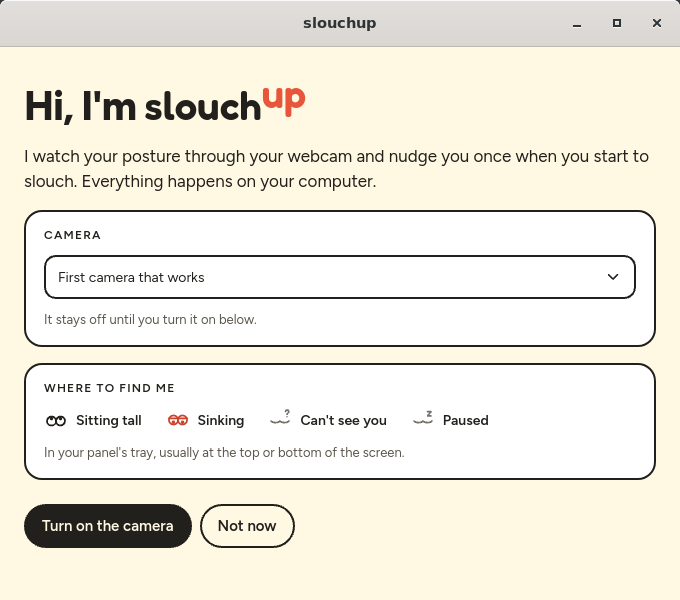
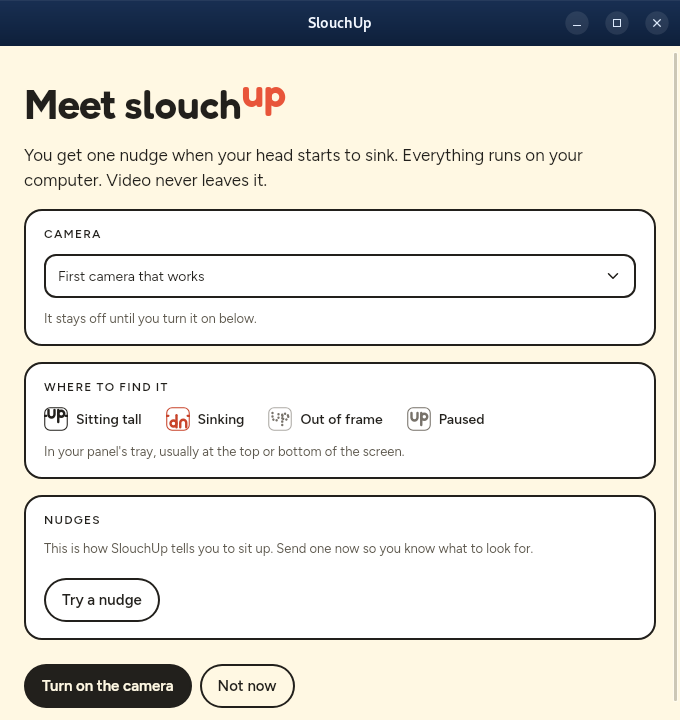
Welcome opened in the demo with --welcome
The welcome only showed on a real first run, so it couldn't be screenshotted with the demo person.
- `--demo --welcome` lists the demo's stand-in cameras and never opens a real one
- scripts/screenshots.sh takes the README's welcome this way, now with its Nudges step

diff --git a/crates/slouch-app/src/config.rs b/crates/slouch-app/src/config.rs
@@ -232,6 +232,8 @@ pub struct Args {
     pub settings: bool,
     pub history: bool,
     pub test_notification: bool,
+    /// Open the first run's welcome, as for screenshots with the demo person.
+    pub welcome: bool,
 }
 
 pub fn parse_args() -> Args {
@@ -245,10 +247,11 @@ pub fn parse_args() -> Args {
             "--settings" => args.settings = true,
             "--history" => args.history = true,
             "--test-notification" => args.test_notification = true,
+            "--welcome" => args.welcome = true,
             "--camera" => args.camera = raw.next().and_then(|n| n.parse().ok()),
             "--help" | "-h" => {
                 println!(
-                    "Usage: slouchup [--show] [--game] [--settings] [--history] [--camera N | --demo] [--test-notification]"
+                    "Usage: slouchup [--show] [--game] [--settings] [--history] [--camera N | --demo] [--welcome] [--test-notification]"
                 );
                 std::process::exit(0);
             }

diff --git a/crates/slouch-app/src/onboarding.rs b/crates/slouch-app/src/onboarding.rs
@@ -147,7 +147,15 @@ pub fn Onboarding(
     on_start: EventHandler<Option<String>>,
     on_later: EventHandler<()>,
 ) -> Element {
-    let cameras = use_hook(source::list_cameras);
+    let demo = !use_context::<Bridge>().persist;
+    // Listing opens each camera, so the demo lists its stand-ins instead.
+    let cameras = use_hook(move || {
+        if demo {
+            source::demo_cameras()
+        } else {
+            source::list_cameras()
+        }
+    });
     let mut camera = use_signal(|| chosen);
     rsx! {
         div { class: "settings onboarding", "data-theme": Theme::Day.name(),

diff --git a/crates/slouch-app/src/ui.rs b/crates/slouch-app/src/ui.rs
@@ -554,7 +554,10 @@ pub fn App() -> Element {
                 }
             }
             chosen.set(camera.clone());
-            bridge.send(Command::UseCamera(camera));
+            // The demo's cameras are stand-ins; the engine keeps drawing the person.
+            if bridge.persist {
+                bridge.send(Command::UseCamera(camera));
+            }
             bridge.send(Command::Resume);
             onboarding.set(false);
             start_game(());

diff --git a/crates/slouch-app/src/main.rs b/crates/slouch-app/src/main.rs
@@ -97,7 +97,7 @@ fn main() {
 
     let (command_tx, command_rx) = crossbeam_channel::unbounded();
     // The first run keeps the camera off until its welcome says to turn it on.
-    let onboarding = !args.demo && !config::has_thresholds();
+    let onboarding = args.welcome || (!args.demo && !config::has_thresholds());
     if onboarding {
         let _ = command_tx.send(Command::Pause(None));
     }

diff --git a/DEVELOPMENT.md b/DEVELOPMENT.md
@@ -51,6 +51,7 @@ tray, and opens its welcome on the first run. The flags, from `slouchup --help`:
 | `--game` | Starts the calibration game |
 | `--demo` | Uses the drawn demo person instead of a webcam, with a made-up week of history. Settings and history aren't saved, and it runs beside a real SlouchUp. |
 | `--camera N` | Uses camera N, counting from 0, instead of the saved choice |
+| `--welcome` | Opens the first run's welcome. With `--demo`, it lists the demo's stand-in cameras and never opens a real one. |
 | `--test-notification` | Sends a sample nudge and exits |
 
 Use `--demo` for anything you show or screenshot. The `slouch-app` examples help with diagnosing:
